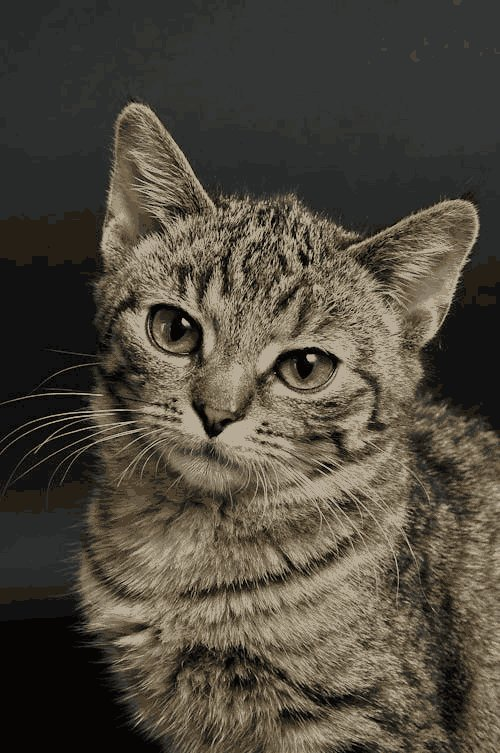
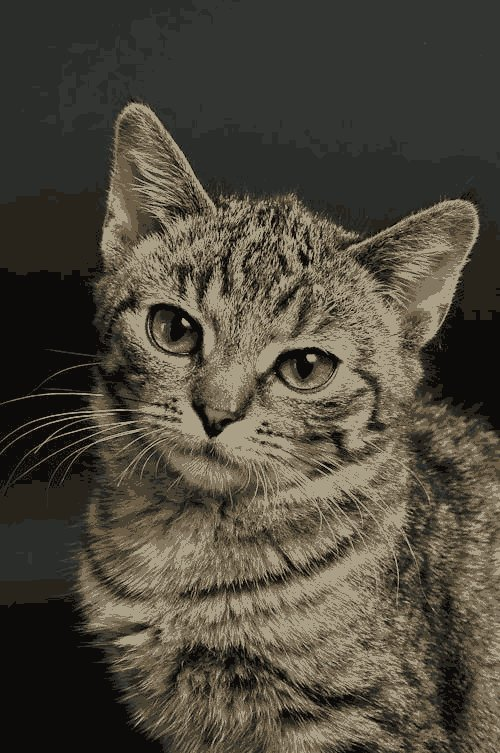
Implemented Floyd-Steinberg dithering

diff --git a/effects/effect.py b/effects/effect.py
@@ -1,7 +1,8 @@
 import pygame
 import math
-import numpy
+import numpy, itertools
 from abc import ABC, abstractmethod
+from functools import reduce
 
 # The effect class is the base for building all image-processing effects.
 class Effect(ABC):
@@ -9,6 +10,59 @@ class Effect(ABC):
     description = "Default description for effects/image processes."
     required_parameters = []
     optional_parameters = []
+
+    @staticmethod
+    def find_closest_palette_color(pixel, palette) -> pygame.Color:
+        def get_closest(a:pygame.Color, b:pygame.Color):
+            if Effect.euclidean_distance(a, pixel) < Effect.euclidean_distance(b, pixel):
+                return a
+            return b
+        return reduce(get_closest, palette)
+
+
+
+    @staticmethod 
+    def euclidean_distance(a:pygame.Color, b:pygame.Color) -> float:
+        return math.sqrt((b.r-a.r)**2 + (b.g-a.g)**2 + (b.b-a.b)**2)
+    
+    @staticmethod
+    def median_cut_palette(image:pygame.Surface, num: int=8) -> list[pygame.Color]:
+
+        width = image.get_width()
+        height = image.get_height()
+        pixels = [image.get_at(pos) for pos in itertools.product(range(width),range(height))]
+
+        def bucket(pixels:list[pygame.Color], num:int) -> list[pygame.Color]:
+            if num <= 1:
+                rgb = [0,0,0]
+                for pixel in pixels:
+                    rgb[0] += pixel.r
+                    rgb[1] += pixel.g
+                    rgb[2] += pixel.b
+
+                rgb = [int(rgb[0]/len(pixels)), int(rgb[1]/len(pixels)), int(rgb[2]/len(pixels))] 
+                #print(len(pixels))
+                return [pygame.Color(*rgb)]
+            
+            maxes = [-1,-1,-1]
+            mins = [256,256,256]
+
+            for pixel in pixels:
+                maxes[0] = max(maxes[0], pixel.r)
+                maxes[1] = max(maxes[1], pixel.g)
+                maxes[2] = max(maxes[2], pixel.b)
+                maxes[0] = min(mins[0], pixel.r)
+                mins[1] = min(mins[1], pixel.g)
+                mins[2] = min(mins[2], pixel.b)
+                                    
+            ranges = [a-b for a,b in zip(maxes,mins)]
+            index = ranges.index(max(ranges))
+            pixels = sorted(pixels, key=lambda x:x[index])
+            
+            return bucket(pixels[:math.floor(len(pixels)/2)], int(num/2)) + bucket(pixels[math.floor(len(pixels)/2):], int(num/2)) 
+
+        return bucket(pixels, num)       
+
     @staticmethod
     def get_val(pixel:pygame.Color):
         val = (0.299*pixel[0]+0.587*pixel[1]+0.114*pixel[2]) # Returns pixel brightness

diff --git a/effects/quantize.py b/effects/quantize.py
@@ -9,48 +9,6 @@ class Quantize(Effect):
     optional_parameters = []
     required_parameters = ["num_colors"]
 
-    @staticmethod 
-    def euclidean_distance(a:pygame.Color, b:pygame.Color) -> float:
-        return sqrt((b.r-a.r)**2 + (b.g-a.g)**2 + (b.b-a.b)**2)
-    
-    @staticmethod
-    def get_color_pallette(image:pygame.Surface, num: int=8) -> list[pygame.Color]:
-
-        width = image.get_width()
-        height = image.get_height()
-        pixels = [image.get_at(pos) for pos in itertools.product(range(width),range(height))]
-
-        def bucket(pixels:list[pygame.Color], num:int) -> list[pygame.Color]:
-            if num <= 1:
-                rgb = [0,0,0]
-                for pixel in pixels:
-                    rgb[0] += pixel.r
-                    rgb[1] += pixel.g
-                    rgb[2] += pixel.b
-
-                rgb = [int(rgb[0]/len(pixels)), int(rgb[1]/len(pixels)), int(rgb[2]/len(pixels))] 
-                #print(len(pixels))
-                return [pygame.Color(*rgb)]
-            
-            maxes = [-1,-1,-1]
-            mins = [256,256,256]
-
-            for pixel in pixels:
-                maxes[0] = max(maxes[0], pixel.r)
-                maxes[1] = max(maxes[1], pixel.g)
-                maxes[2] = max(maxes[2], pixel.b)
-                maxes[0] = min(mins[0], pixel.r)
-                mins[1] = min(mins[1], pixel.g)
-                mins[2] = min(mins[2], pixel.b)
-                                    
-            ranges = [a-b for a,b in zip(maxes,mins)]
-            index = ranges.index(max(ranges))
-            pixels = sorted(pixels, key=lambda x:x[index])
-            
-            return bucket(pixels[:math.floor(len(pixels)/2)], int(num/2)) + bucket(pixels[math.floor(len(pixels)/2):], int(num/2)) 
-
-        return bucket(pixels, num)       
-
     @staticmethod
     def apply(image: pygame.Surface, *parameters) -> pygame.Surface:
 
@@ -59,7 +17,7 @@ class Quantize(Effect):
 
         args = iter(parameters)
         num_colors = int(next(args,8))
-        pallette = Quantize.get_color_pallette(image, num_colors)
+        pallette = Effect.median_cut_palette(image, num_colors)
         
         for j in range(height):
             for i in range(width):

diff --git a/effects/dither.py b/effects/dither.py
@@ -8,7 +8,31 @@ class Dither(Effect):
     @staticmethod
     def apply(image: pygame.Surface, *parameters) -> pygame.Surface:
         
+        height = image.get_height()
+        width = image.get_width()
 
+        palette = Effect.median_cut_palette(image, 8)
+        for j in range(height):
+            for i in range(width):
+                old_pixel = image.get_at((i,j))
+                new_pixel: pygame.Color = Effect.find_closest_palette_color(old_pixel, palette)
+                image.set_at((i,j), new_pixel)
+                quant_error = [old-new for old,new in zip([old_pixel.r, old_pixel.g, old_pixel.b], [new_pixel.r, new_pixel.g, new_pixel.b])]
+
+                def adjust_error(pixel, error, scalar):
+                    red = max(0,min(255,int(pixel.r + error[0]*scalar)))
+                    green = max(0,min(255,int(pixel.g + error[1]*scalar)))
+                    blue = max(0,min(255,int(pixel.b + error[2]*scalar)))
+                    return pygame.Color(red,green,blue)
+                
+                if(i+1 < width):
+                    image.set_at((i+1, j), adjust_error(image.get_at((i+1,j)), quant_error, 7/16))
+                if(j+1 < height -1):
+                    if i > 0:
+                        image.set_at((i-1, j+1), adjust_error(image.get_at((i-1,j+1)), quant_error, 3/16))
+                    image.set_at((i, j+1), adjust_error(image.get_at((i,j+1)), quant_error, 5/16))
+                    if i + 1 < width:
+                        image.set_at((i+1, j+1), adjust_error(image.get_at((i+1,j+1)), quant_error, 1/16))
         return image
     
     
